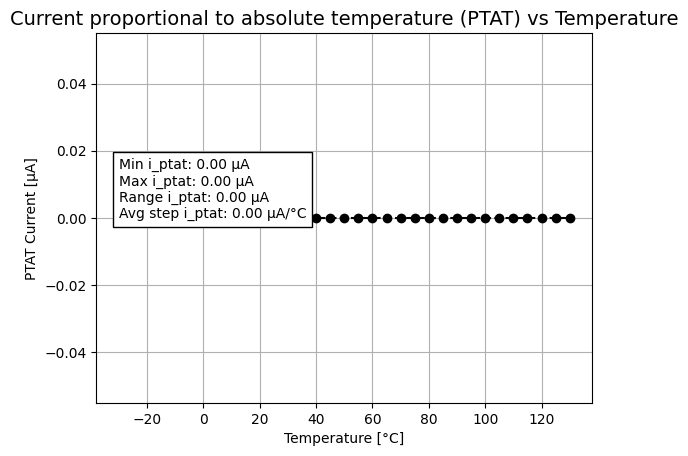
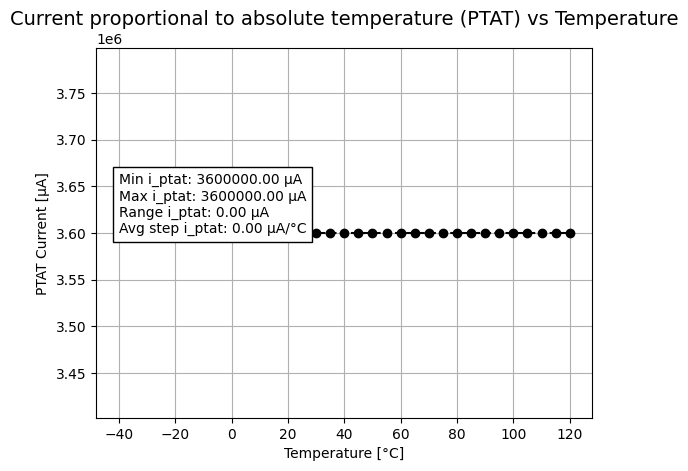
started plotting v_ref from ptat circuit, and tried to get testbench to work, but can only extract values zero

diff --git a/sim/temperature_to_current_tord/tran.py b/sim/temperature_to_current_tord/tran.py
@@ -25,8 +25,10 @@ def main(name="output_tran/tran_SchGtKttTtVt"):
   # with open(yamlfile,"w") as fo:
   #   yaml.dump(obj,fo)
 
-  temps = []
+  temps_i = []
+  temps_v = []
   i_r1 = []
+  v_d1 = []
 
   # Open and read the YAML file
   with open(yamlfile, "r") as file:
@@ -35,35 +37,65 @@ def main(name="output_tran/tran_SchGtKttTtVt"):
     # Iterate through all keys in the YAML data
     for key, value in data.items():
       if key.startswith("i_r1"):
-        temp = int(key.split("_")[-1])
-        temps.append(temp)
+        temp_i = int(key.split("_")[-1])
+        temps_i.append(temp_i)
         i_r1.append(value)
+      elif key.startswith("v_d1"):
+        temp_v = int(key.split("_")[-1])
+        temps_v.append(temp_v)
+        v_d1.append(value)
       else:
         continue
 
-    combined_list = []
-    for i in range(len(data.items())):
-      combined_list.append([temps[i], i_r1[i]])
+  combined_list_i = []
+  for index in range(len(temps_i)):
+    combined_list_i.append([temps_i[index], i_r1[index]])
 
-  combined_list_sorted = sorted(combined_list , key=lambda k: [k[0], k[1]])
-  
-  xs = [x[0] for x in combined_list_sorted]
-  ys = [x[1]*1e6 for x in combined_list_sorted]
+  combined_list_v = []
+  for index in range(len(temps_v)):
+    combined_list_v.append([temps_v[index], v_d1[index]])
 
-  plt.plot(xs, ys, linestyle="--", color="black", marker="o")
+  combined_list_sorted_i = sorted(combined_list_i , key=lambda k: [k[0], k[1]])
+  combined_list_sorted_v = sorted(combined_list_v , key=lambda k: [k[0], k[1]])
+
+  i_r1_x = [x[0] for x in combined_list_sorted_i]
+  i_r1_y = [x[1]*1e6 for x in combined_list_sorted_i]
+
+  v_d1_x = [x[0] for x in combined_list_sorted_v]
+  v_d1_y = [x[1]*1e3 for x in combined_list_sorted_v]
+
+  plt.figure()
+  plt.plot(i_r1_x, i_r1_y, linestyle="--", color="black", marker="o")
   plt.grid()
   plt.xlabel("Temperature [°C]")
   plt.ylabel("PTAT Current [µA]")
   plt.title("Current proportional to absolute temperature (PTAT) vs Temperature", fontsize=14)
-  plt.text(xs[0], ys[-6], 
-           f"Min i_ptat: {ys[0]:.2f} µA\n"
-           f"Max i_ptat: {ys[-1]:.2f} µA\n"
-           f"Range i_ptat: {(ys[-1]-ys[0]):.2f} µA\n"
-           f"Avg step i_ptat: {(ys[-1]-ys[0])/(xs[-1]-xs[0]):.2f} µA/°C",
+  plt.text(i_r1_x[0], i_r1_y[-6], 
+           f"Min i_ptat: {i_r1_y[0]:.2f} µA\n"
+           f"Max i_ptat: {i_r1_y[-1]:.2f} µA\n"
+           f"Range i_ptat: {(i_r1_y[-1] - i_r1_y[0]):.2f} µA\n"
+           f"Avg. step i_ptat: {(i_r1_y[-1] - i_r1_y[0])/(i_r1_x[-1] - i_r1_x[0]):.2f} µA/°C",
            bbox=dict(facecolor="white", edgecolor="black"))
 
   figname = "plots/ptat_vs_temp_" + name.split("_")[-1] + ".png"
   plt.savefig(figname, bbox_inches="tight")
-  plt.show()
-
   print("plot of ptat current vs temperature is saved in /sim/ folder as: " + figname)
+
+  plt.figure()
+  plt.plot(v_d1_x, v_d1_y, linestyle="--", color="black", marker="o")
+  plt.grid()
+  plt.xlabel("Temperature [°C]")
+  plt.ylabel("Vref [mV]")
+  plt.title("Reference Voltage vs Temperature", fontsize=14)
+  plt.text(v_d1_x[0], v_d1_y[-6], 
+           f"Min v_d1: {v_d1_y[0]:.2f} mV\n"
+           f"Max v_d1: {v_d1_y[-1]:.2f} mV\n"
+           f"Range v_d1: {(v_d1_y[-1]-v_d1_y[0]):.2f} mV\n"
+           f"Avg. step v_d1: {(v_d1_y[-1] - v_d1_y[0])/(v_d1_x[-1] - v_d1_x[0]):.2f} mV/°C",
+           bbox=dict(facecolor="white", edgecolor="black"))
+
+  figname = "plots/vref_vs_temp_" + name.split("_")[-1] + ".png"
+  plt.savefig(figname, bbox_inches="tight")
+  print("plot of reference voltage vs temperature is saved in /sim/ folder as: " + figname)
+
+  plt.show()
